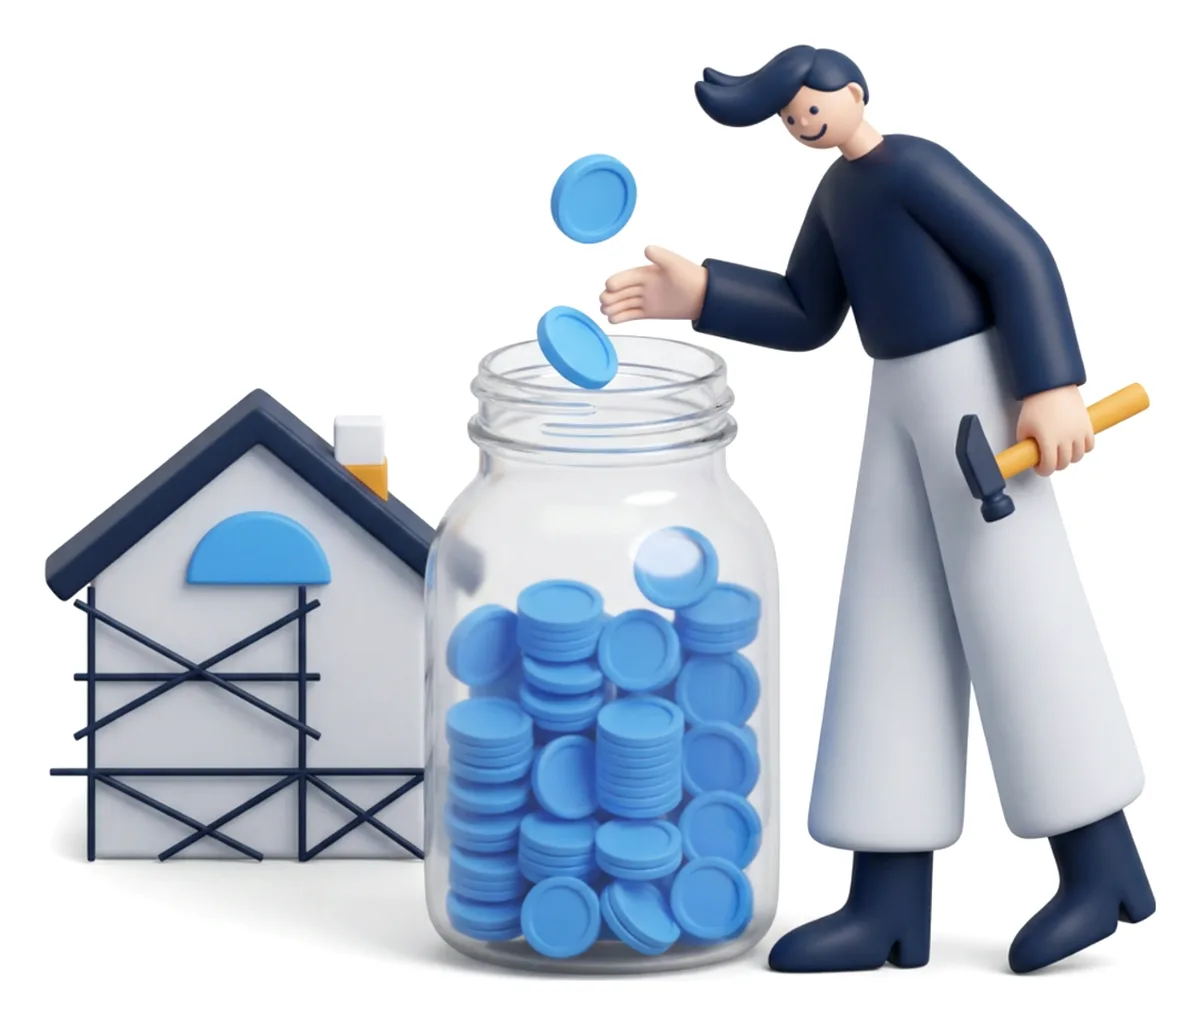
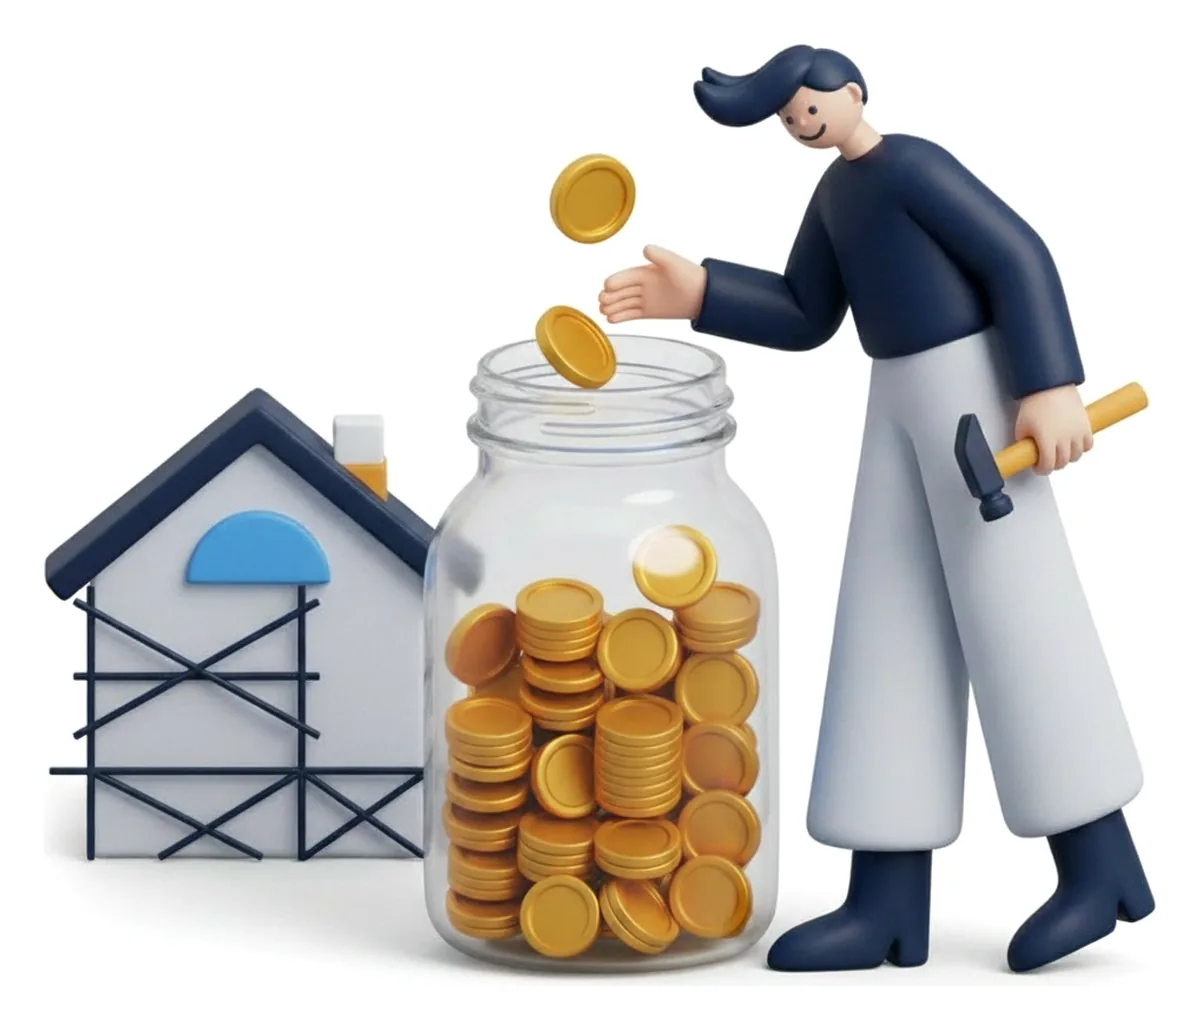
seo(funktioner): 8 new in-article 3D illustrations + gold coins (R13)
Two new illustrations per feature page in the longest image-free stretches;
hantverkare-faktura coins recoloured to amber gold per R13.

Claude-Session: https://claude.ai/code/session_0111Fs7yWaqQazNsNBy46isk

diff --git a/src/content/funktion-pages.ts b/src/content/funktion-pages.ts
@@ -62,13 +62,21 @@ export const ILLU_HEIGHT: Record<string, number> = {
   'tidrapporteringssystem-lon': 1175,
   'hantverkare-servicebil': 927,
   'hantverkare-flera-kunder': 733,
-  'hantverkare-faktura': 1025,
+  'hantverkare-faktura': 1030,
   'byggdagbok-platskontor': 1277,
   'byggdagbok-foto': 1159,
   'byggdagbok-leverans': 924,
   'resursplanering-gantt': 1205,
   'resursplanering-bemanning': 1030,
-  'resursplanering-franvaro': 718
+  'resursplanering-franvaro': 718,
+  'tidrapporteringssystem-kvallsgjutning': 900,
+  'tidrapporteringssystem-id06': 740,
+  'hantverkare-kvitto': 1069,
+  'hantverkare-anstallda': 1007,
+  'byggdagbok-vader': 1179,
+  'byggdagbok-tillbyggnad': 900,
+  'resursplanering-egenkontroll': 926,
+  'resursplanering-vinter': 802,
 };
 const IMG_DIR = '/landing/funktioner';
 export const illuSrc = (name: string, w: 640 | 1200 = 1200) => `${IMG_DIR}/${name}-${w}.webp`;
@@ -179,6 +187,8 @@ ${illu('tidrapporteringssystem-attest', 'Kvinna vid skrivbordet arbetar vid en d
 <p>Övertiden har också ett tak i lag. ${ext(ARBETSTIDSLAGEN, 'Arbetstidslagen')} tillåter högst 200 timmar allmän övertid per anställd och kalenderår, och kollektivavtal kan ha egna regler. När timtypen finns på varje pass ser du snabbt vem som närmar sig gränsen.</p>
 <p>Vill du räkna på en enskild vecka? Använd <a href="/sv/verktyg/ob-overtid-kalkylator">OB- och övertidskalkylatorn</a> eller läs guiden <a href="/sv/blog/ob-overtid-byggavtalet-rakna">så räknar du OB och övertid enligt Byggavtalet</a>.</p>
 
+${illu('tidrapporteringssystem-kvallsgjutning', 'Betongbil gjuter en platta i kvällsljus under en arbetslampa, en byggarbetare drar av betongen och en arbetsledare tittar i mobilen')}
+
 <h2>Restid, traktamente och ÄTA på samma pass</h2>
 <p>Grundtimmarna blir sällan fel i en byggtidrapport. Det som faller bort är allt runt omkring:</p>
 <ul>
@@ -218,6 +228,8 @@ ${illu('tidrapporteringssystem-lon', 'Attesterade tidkort och klockor flyttas ti
 </table></div>
 <p>Den som stämplar behöver aldrig öppna webben. I översikten ser kontoret under dagen hur många som är på jobbet och hur många timmar som har registrerats.</p>
 <p>På varje medarbetare kan du också lägga ID06 och andra certifikat med utgångsdatum. Då ser du i god tid vem som behöver förnya ett kort före nästa jobb på en arbetsplats som kräver det.</p>
+
+${illu('tidrapporteringssystem-id06', 'Byggarbetare i hjälm visar sitt ID-kort för en arbetsledare med surfplatta vid grinden till ett inhägnat bygge med byggställning')}
 
 <h2>Checklista: välj tidrapporteringssystem för bygg</h2>
 <p>Gå igenom listan med era egna rutiner framför dig. Det är sällan antalet funktioner som avgör, utan om systemet täcker det ni faktiskt gör varje vecka.</p>
@@ -369,7 +381,7 @@ ${illu('hantverkare-flera-kunder', 'Hantverkare monterar ett köksskåp och regi
 <p>Fakturerar du på löpande räkning kan du exportera tidrapporten för projektet som PDF och skicka den med fakturan. Kunden ser då datum och timmar för varje pass, och frågor om ”hur kunde det bli så många timmar” blir färre. Samma PDF är ditt underlag om fakturan ifrågasätts.</p>
 <p>Läs mer om hur du <a href="/sv/blog/fakturera-som-hantverkare">fakturerar som hantverkare</a> eller räkna på avdraget med <a href="/sv/verktyg/rot-avdrag-kalkylator">ROT-kalkylatorn</a>.</p>
 
-${illu('hantverkare-faktura', 'Hantverkare med hammare lägger blå mynt i en glasburk bredvid ett hus under byggnad')}
+${illu('hantverkare-faktura', 'Hantverkare med hammare lägger guldmynt i en glasburk bredvid ett hus under byggnad')}
 
 <h2>Löpande räkning eller fast pris</h2>
 <p>Tidrapporten gör olika nytta beroende på hur jobbet är prissatt:</p>
@@ -383,6 +395,8 @@ ${illu('hantverkare-faktura', 'Hantverkare med hammare lägger blå mynt i en gl
 <p>Material som köps på vägen till jobbet är lätt att glömma i fakturan. I ByggExp skannar du kvittot med mobilkameran och kopplar det till projektet direkt i kassakön. Inkommande leverantörsfakturor kan skickas in via e-post och skannas på samma sätt. På så sätt ligger både timmar och material på kundens projekt när du ska fakturera, och projektets ekonomi (Full koll) visar vad jobbet faktiskt kostade.</p>
 <p>Är du ensam i firman och mest behöver fakturor, kvitton och påminnelser? Då kan paketet för <a href="/sv/enmansforetag">enmansföretag</a> räcka.</p>
 
+${illu('hantverkare-kvitto', 'Hantverkare i hjälm fotograferar ett kvitto med mobilen bredvid en vagn med brädor och färghink i en byggvaruhandel')}
+
 <h2>Återbesök och servicejobb som inte glöms</h2>
 <p>En stor del av en hantverkares dag är småjobb som är lätta att lova och lätta att glömma: ett återbesök för att justera en dörr, en kompletterande leverans, en garantifråga. I Uppgifter skapar du en uppgift med datum och tid, tilldelar den dig själv eller en anställd och väljer hur ofta appen ska påminna. Påminnelsen upprepas tills uppgiften är markerad som klar, och återkommande jobb – till exempel en årlig service – skapas på nytt när det förra är avslutat.</p>
 <p>När du sedan kör till kunden checkar du in på projektet som vanligt, och tiden hamnar där den ska.</p>
@@ -390,6 +404,8 @@ ${illu('hantverkare-faktura', 'Hantverkare med hammare lägger blå mynt i en gl
 <h2>När du har anställda</h2>
 <p>Så fort du har en eller två anställda blir tidrapporten också löneunderlag. Varje pass har en timtyp – normal, övertid eller OB – och traktamente kan väljas som helt eller halvt. Passen attesteras och löneunderlaget exporteras som CSV. Är firman ansluten till Byggavtalet behöver timtyperna stämma med avtalets regler. Hur det fungerar för större lag beskriver vi på sidan om <a href="/sv/funktioner/tidrapporteringssystem-bygg">tidrapporteringssystem för bygg</a>.</p>
 <p>Behöver anställda visa ID06 eller andra behörigheter? Certifikaten läggs på varje medarbetare med utgångsdatum, så att du ser vem som behöver förnya.</p>
+
+${illu('hantverkare-anstallda', 'Hantverkare visar en anställd hur en kakelplatta ska sättas på en delvis kaklad vägg, med en hink fix, en tandspackel och en verktygslåda på golvet')}
 
 <h2>Vad ska ett tidrapporteringssystem för hantverkare klara?</h2>
 <p>Hantverksfirmor behöver något annat än stora entreprenörer. Ställ de här frågorna innan du väljer:</p>
@@ -536,6 +552,8 @@ ${illu('byggdagbok-foto', 'Byggarbetare i hjälm fotograferar en vägg av block 
 <h2>Fem minuter om dagen</h2>
 <p>En byggdagbok behöver inte ta lång tid. Med fasta fält skriver arbetsledaren väder och bemanning på morgonen och utfört arbete, avvikelser och material innan arbetsdagen slutar. Fotona har laget redan tagit under dagen. Det som tar tid är att rekonstruera en vecka i efterhand, och det är just det en daglig rutin undviker.</p>
 
+${illu('byggdagbok-vader', 'Arbetsledare i hjälm skriver i mobilen bredvid en termometer på en stolpe, med sol och moln ovanför och en betongblandare vid en trave skivor')}
+
 <h2>Vem skriver – och när?</h2>
 <p>Den vanligaste orsaken till en tunn byggdagbok är att ingen äger den. Bestäm därför:</p>
 <ul>
@@ -558,6 +576,8 @@ ${illu('byggdagbok-foto', 'Byggarbetare i hjälm fotograferar en vägg av block 
 </tbody>
 </table></div>
 <p>Ingen av raderna tar mer än ett par minuter att skriva. Ändå svarar veckan på de frågor som brukar komma senare: varför väggresningen tog en dag extra, när frågan om fönstret kom upp och hur infästningarna såg ut innan de byggdes in. Frågan om fönstret är ett tillägg som ska hanteras som ÄTA – dagboken visar bara när den kom upp.</p>
+
+${illu('byggdagbok-tillbyggnad', 'Beställare pekar på en öppning i en regelvägg till en tillbyggnad medan en snickare i hjälm antecknar i mobilen')}
 
 <h2>Tre dagar som avgörs av dagboken</h2>
 <h3>Frost före gjutningen</h3>
@@ -728,6 +748,8 @@ ${illu('resursplanering-franvaro', 'Projektledare vid skrivbordet framför en st
 <h2>Uppgifter kompletterar planen</h2>
 <p>Bemanningen säger var folk ska vara. Uppgifterna säger vad som ska göras där. I Uppgifter ger du en person eller hela projektteamet en uppgift med prioritet, start- och förfallodatum. Påminnelser skickas med det intervall du väljer, och efter ett antal påminnelser kan chefen meddelas automatiskt. Så missas inte det som måste vara klart innan nästa lag kan börja, till exempel en egenkontroll före igenbyggnad.</p>
 
+${illu('resursplanering-egenkontroll', 'Byggarbetare i hjälm håller en surfplatta med bockar framför en öppen regelvägg medan en kollega bär fram en gipsskiva')}
+
 <h2>Frånvaro i samma plan</h2>
 <p>Semester, ATF-dagar och sjukdom avgör hur många som faktiskt finns att planera med. I ByggExp registreras ledighet i Frånvaro. När den är godkänd syns den i Bemanning, så att ingen blir inbokad en dag med ledighet.</p>
 <p>Vill du räkna på kapacitet och övertid över längre tid beskriver vi resurshistogram och utjämning i guiden om <a href="/sv/blog/resursplanering-bygg">resursplanering i bygg</a>.</p>
@@ -742,6 +764,8 @@ ${illu('resursplanering-franvaro', 'Projektledare vid skrivbordet framför en st
 <p>Kortsiktigt arbetar du sedan i Bemanning, dag för dag, medan den långa planen ligger kvar som ram.</p>
 
 <p>Ett tips: gå igenom den långa planen en gång i månaden tillsammans med projektledarna. Det tar en halvtimme och fångar de flesta krockar medan de fortfarande går att lösa genom att flytta en start en vecka.</p>
+
+${illu('resursplanering-vinter', 'Två byggarbetare i hjälm lägger en isoleringsmatta över en nygjuten betongplatta i snön, bredvid ett värmeaggregat')}
 
 <h2>Vad du planerar – och vad du inte planerar – i ByggExp</h2>
 <div class="article-table"><table>
